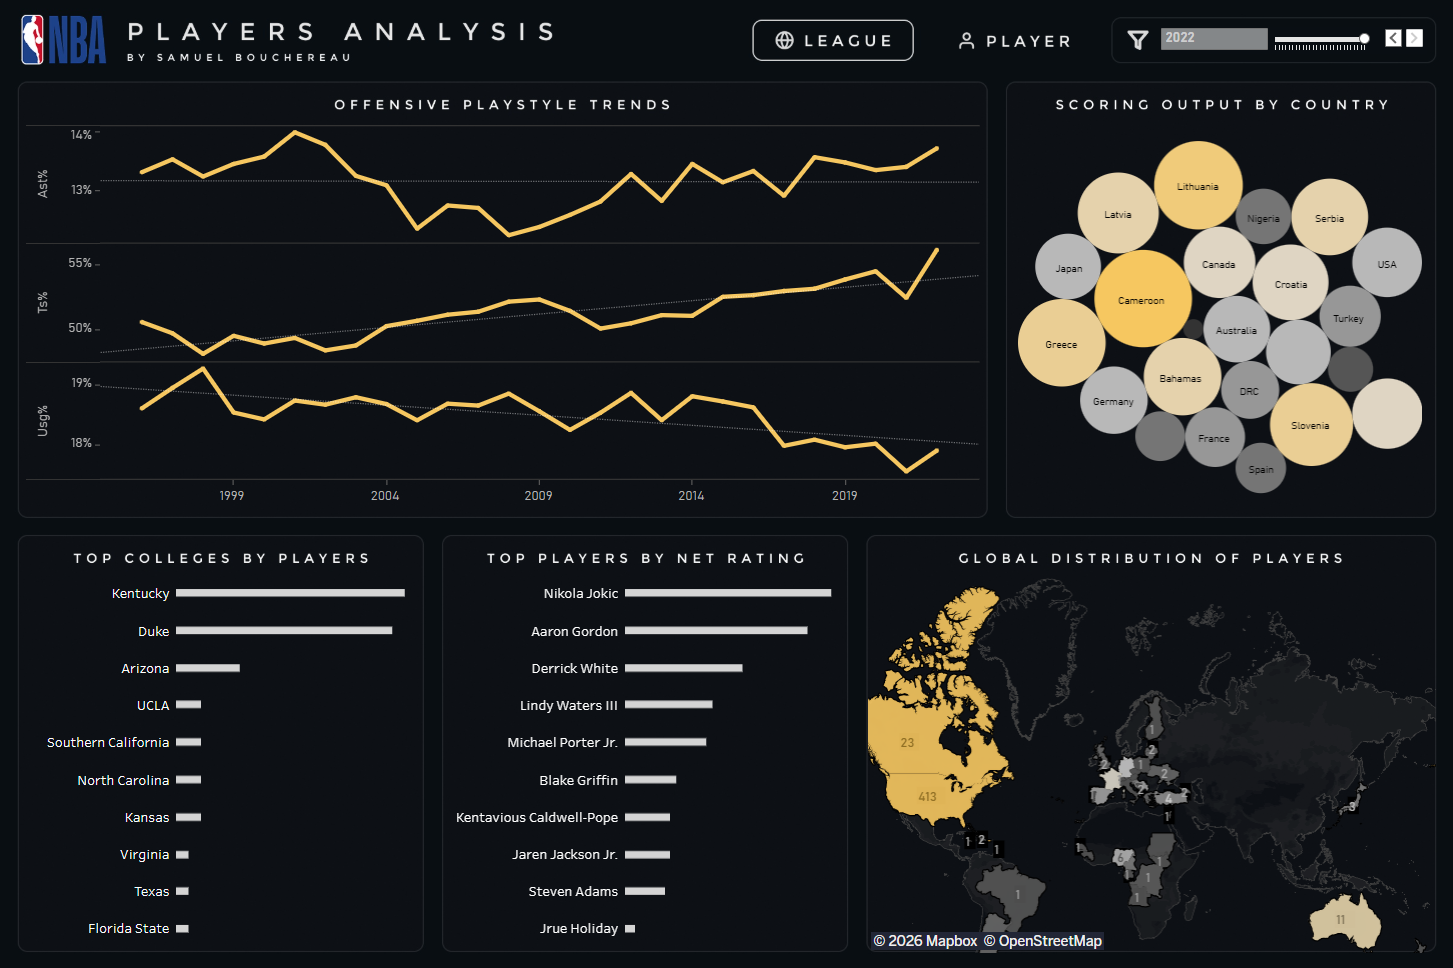
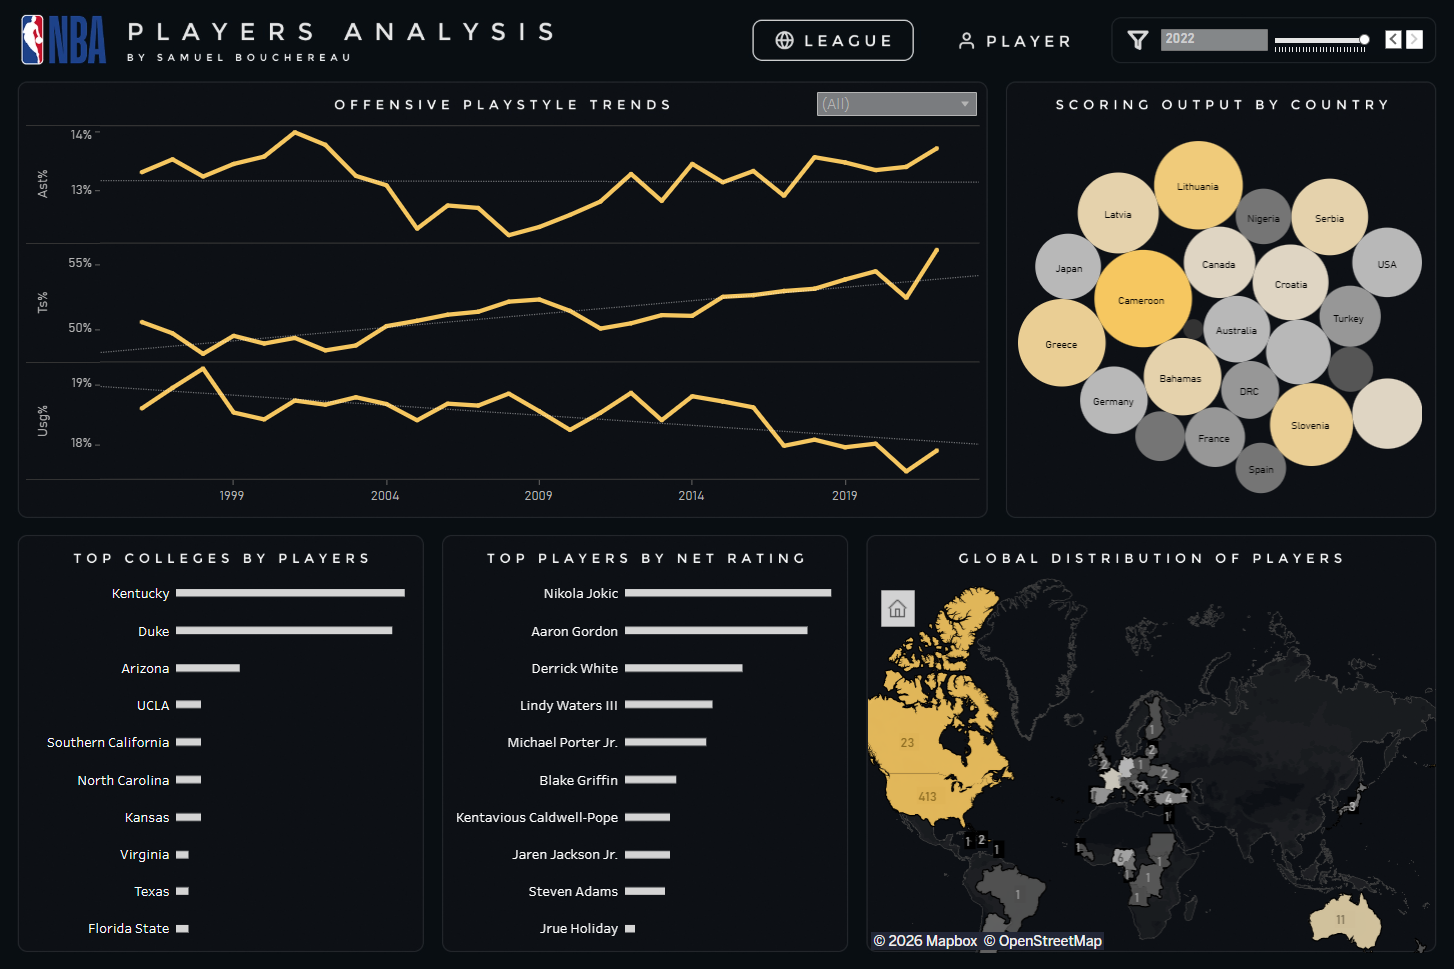
Update README.md

diff --git a/projects/2-nba-players/README.md b/projects/2-nba-players/README.md
@@ -46,6 +46,9 @@ This section explores league-wide patterns and long-term evolution in player dis
   - Assist Percentage (`ast_pct`)
   - True Shooting Percentage (`ts_pct`)
   - Usage Percentage (`usg_pct`)
+- **Interactive Filters**
+  - **Season** — Explore trends year by year  
+  - **Team** — Analyze playstyle trends for a selected team in the line charts 
 
 ### Single Player Analysis
 This section provides a detailed view of individual players, combining context, performance trends, and playstyle indicators.
@@ -64,12 +67,14 @@ This section provides a detailed view of individual players, combining context, 
   - Assists per game and assist percentage (`ast`, `ast_pct`)
   - Usage Percentage (`usg_pct`)
   - True Shooting Percentage (`ts_pct`)
+- **Interactive Filter**
+  - **Player Filter** — Select an individual player to update all views across the dashboard
 
 ## 🔍 Insights
 
 - **International Representation:** There has been a steady increase in the number of international players in the NBA, with a particularly sharp rise since 2000.  
 - **Top Countries:** The United States remains the leading contributor of NBA players by a wide margin, followed by Canada, France, and Australia.
-- **High-Efficiency Scorers (2020–2022):** Cameroon, Lithuania, and Greece produced the highest number of high-efficiency scorers relative to other countries during these seasons.  
+- **High-Efficiency Scorers (2020–2022):** Cameroon, Lithuania, and Greece averaged the highest number of high-efficiency scorers compared with other countries during this period.  
 - **College Dominance:** A small group of colleges dominates NBA player production, with Kentucky leading, followed closely by Duke.  
 - **Playstyle Evolution:** NBA offenses have shifted toward greater ball movement, more distributed offensive responsibility, and improved scoring efficiency.
 

diff --git a/projects/1-google-fiber/README.md b/projects/1-google-fiber/README.md
@@ -1,19 +1,15 @@
 # 📊 Google Fiber Call Center
 
-
 * **Course**: Google Professional Certificate in Business Intelligence
 * **Project**: Repeat Caller Analysis (Call Center Data)
 * **Date**: November 2025
 
+This project, part of the Google Professional Certificate in BI, analyzes **repeat calls** to the Google Fiber call center to identify trends and generate insights that improve first-contact resolution and customer satisfaction.
 
 ## [🔗 Dashboard v1](https://public.tableau.com/app/profile/samuel.bouchereau/viz/GoogleFiberCallCenterRepeatCallsAnalysis/TypeView)
 
-
-<img src="medias/preview.png">
-
-
-This project is part of the Google Professional Certificate in Business Intelligence. The goal is to build a dashboard to analyze **repeat customer calls** to the Google Fiber call center, identify trends, and provide actionable insights to improve first-contact resolution and customer satisfaction.
-
+### Preview
+<img src="medias/preview.png" alt="Preview">
 
 ## Features
 
@@ -23,12 +19,10 @@ This project is part of the Google Professional Certificate in Business Intellig
 * Supports accessibility, including large print and text-to-speech alternatives.
 * Helps identify operational improvements and reduce call volume.
 
-
 ## Insights
 
 * **Market 1** has the highest volume of calls and repeat calls.
 * **Internet & Wi-Fi** and **Technical Troubleshooting** account for **81% of repeat calls**, highlighting key areas to improve first-contact resolution.
-
 
 ## 🧠 Key Technologies
 
